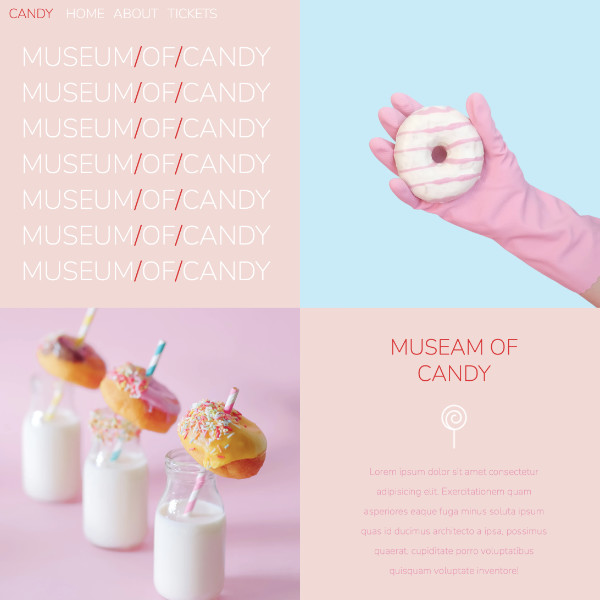
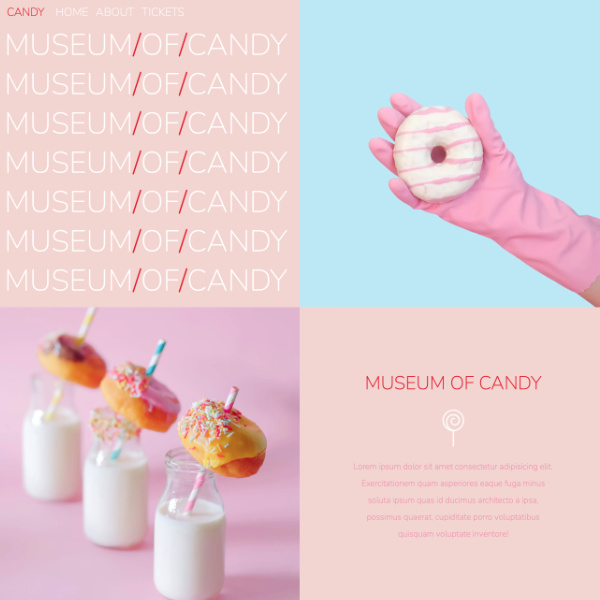
fixed section spacing

diff --git a/portfolio_sites/museum_of_candy/index.html b/portfolio_sites/museum_of_candy/index.html
@@ -66,7 +66,7 @@
 			<div class="col-md-6 px-0 text-center order-1 order-md-2">
 				<div class="row justify-content-center">
 					<div class="d-flex flex-column justify-content-center col-10 col-lg-8 blurb mb-5 mb-md-0">
-						<h2>MUSEAM OF CANDY</h2>
+						<h2>MUSEUM OF CANDY</h2>
 						<img src="imgs/lolli_icon.png" alt="" class="d-none d-lg-inline img">
 						<p class="lead">
 							Lorem ipsum dolor sit amet consectetur adipisicing elit. Exercitationem quam asperiores
@@ -84,7 +84,7 @@
 			<div class="col-md-6 px-0 text-center">
 				<div class="row justify-content-center">
 					<div class="d-flex flex-column justify-content-center col-10 col-lg-8 blurb mb-5 mb-md-0">
-						<h2>MUSEAM OF CANDY</h2>
+						<h2>MUSEUM OF CANDY</h2>
 						<img src="imgs/lolli_icon.png" alt="" class="d-none d-lg-inline img">
 						<p class="lead">
 							Lorem ipsum dolor sit amet consectetur adipisicing elit. Exercitationem quam asperiores
@@ -108,7 +108,7 @@
 			<div class="col-md-6 px-0 text-center order-1 order-md-2">
 				<div class="row justify-content-center">
 					<div class="d-flex flex-column justify-content-center col-10 col-lg-8 blurb mb-5 mb-md-0">
-						<h2>MUSEAM OF CANDY</h2>
+						<h2>MUSEUM OF CANDY</h2>
 						<img src="imgs/lolli_icon.png" alt="" class="d-none d-lg-inline img">
 						<p class="lead">
 							Lorem ipsum dolor sit amet consectetur adipisicing elit. Exercitationem quam asperiores

diff --git a/index.html b/index.html
@@ -42,7 +42,7 @@
 	<!-- <button class="btn btn-sm text-light" id="animation-toggle">disable animation</button> -->
 
 	<section>
-		<div class="row py-lg-5 px-3 trans-background">
+		<div class="row py-5 px-3 trans-background">
 			<div class="col-lg-6 col-md-8 mx-auto">
 				<h1 class="fw-light text-light fs-1">A Few Projects</h1>
 				<p class="lead text-light fs-6">I'm a web developer who loves to collaborate with designers. I've worked with artists: designers, photographers, illustrators—most of my adult life. While I'm a capable designer, design is not my passion. My understanding of design and user experience allows me to recognize design and usability issues before implementation.</p>
